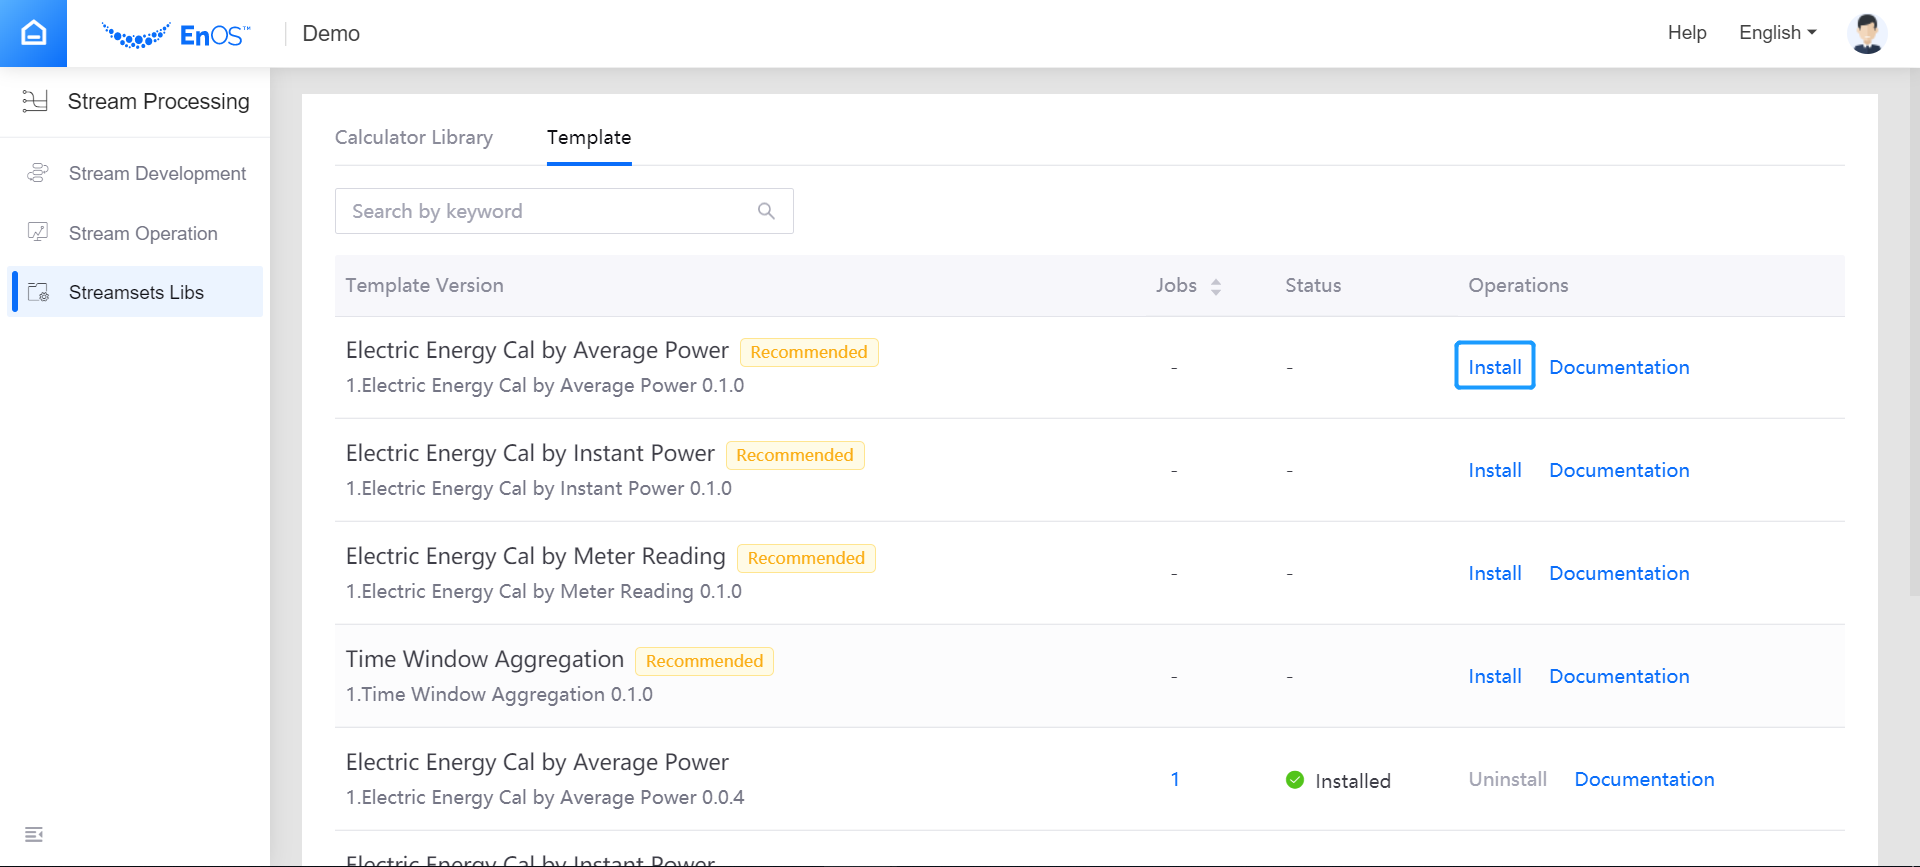
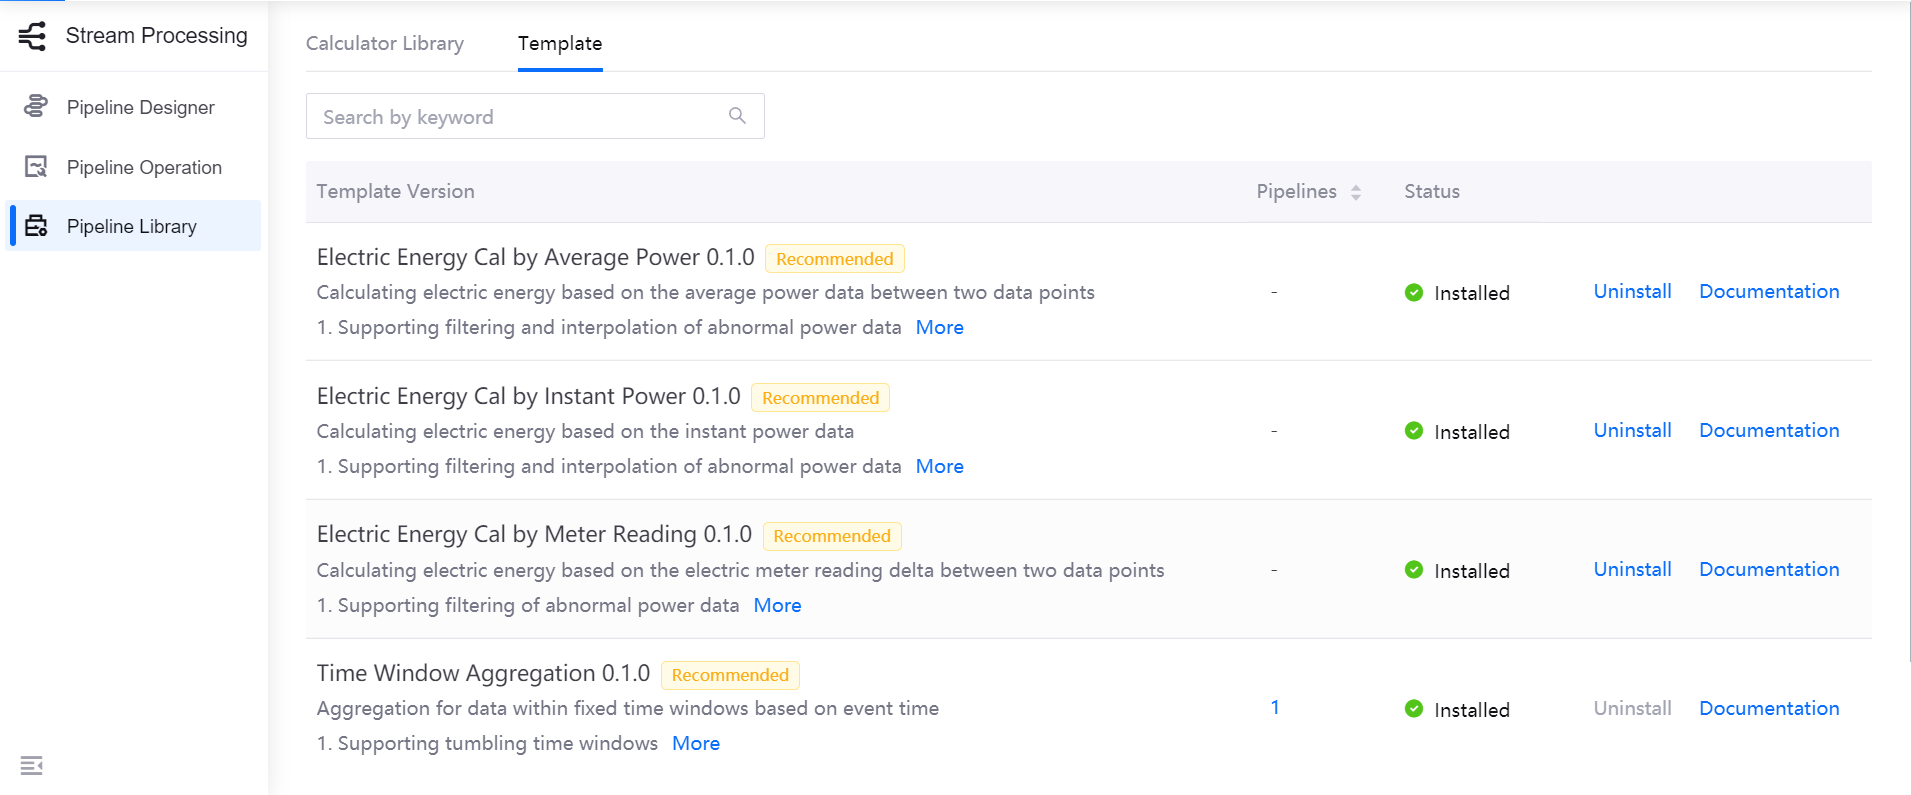
Update Tutorial

diff --git a/3_Data_Management/lab_tutorial/303-1_configuring_storage_policy.md b/3_Data_Management/lab_tutorial/303-1_configuring_storage_policy.md
@@ -1,12 +1,12 @@
-# Lab 1: Configuring the Storage Policy for the Battery Data
+# Lab 1: Configuring Storage Policy for Battery Data
 
-The EnOS Time Series Database (TSDB) provides a variety of storage options for you to store important and frequently-accessed business data. Through the configuring of storage policies, time-series data can be routed to different datastores based on data types and storage time, thus reducing data storage costs and enhancing data access efficiency.
+The EnOS Time Series Database (TSDB) provides a variety of storage options for you to store important and frequently-accessed business data. Through configuring storage policies, time-series data can be routed to different datastores based on data types and storage time, thus reducing data storage costs and enhancing data access efficiency.
 
-**Note**: By default, the uploaded data is not stored in TSDB. You must configure the data storage policy before the data is uploaded to EnOS Cloud.
+**Note**: By default, the uploaded data is not stored in TSDB. You must configure data storage policy before the data is uploaded to EnOS Cloud.
 
-In this lab, we will configure a storage policy for the following measurement points that are defined in the **SmartBattery_Demo** model.
+In this lab, we will configure storage policies for the following measurement points that are defined in the **SmartBattery_Demo** model.
 
-| Measuring Point  | Storage Type | Description                                                  |
+| Measurement Point  | Storage Type | Description                                                  |
 | ---------------- | ------------ | ------------------------------------------------------------ |
 | current          | AI Raw Data  | Real-time discharge current of the battery                   |
 | voltage          | AI Raw Data  | Real-time voltage of the battery                             |
@@ -16,17 +16,17 @@ In this lab, we will configure a storage policy for the following measurement po
 | health_level     | DI Data      | Output point of the stream processing job for analyzing the health level of the battery |
 | cycle_number     | Generic Data | Number of charge-discharge cycles that has happened on the battery                                 |
 
-For a detailed description of the supported storage types, see [Configuring TSDB Storage](https://support.envisioniot.com/docs/data-asset/en/latest/configuring_tsdb_storage.html).
+For detailed description of the supported storage types, see [Configuring TSDB Storage](https://support.envisioniot.com/docs/time-series-data/en/latest/configuring_tsdb_storage.html).
 
 ## Step 1: Creating a Storage Policy Group
 
-Storage policy groups enable you to manage the time-series data for different projects separately. Before configuring storage policies for the measurement points, you must create a storage policy group.
+Storage policy groups enable you to store the time-series data for different projects separately. Before configuring storage policies for the measurement points, you must create a storage policy group.
 
 However, note that each model can be associated to only one storage policy group.
 
-1. Log in to the EnOS Management Console and select **Time Series Data Management > Storage Policy** from the left navigation menu.
+1. Log in to the EnOS Management Console and select **Time Series Data Management > Storage Policies** from the left navigation menu.
 
-2. Click **Create Group** or the **+** icon to create a storage policy group and complete its configuration.
+2. Click **+ > Create Group** in the upper right corner of the page to create a storage policy group and complete its configuration.
 
    - **Group Name**: Enter a name for the storage policy group.
    - **Group Model**: Search and select the **SmartBattery_Demo** model (or the model you created yourself) to be associated with the storage policy group.
@@ -73,4 +73,3 @@ Follow the same steps to configure the storage policies for the other storage ty
 ## Next Lab
 
 [Calculating the Running-Average of the Battery Voltage](303-2_calculating_average_voltage.md)
-

diff --git a/3_Data_Management/lab_tutorial/303-2_calculating_average_voltage.md b/3_Data_Management/lab_tutorial/303-2_calculating_average_voltage.md
@@ -1,6 +1,6 @@
 # Lab 2. Calculating the Running-Average of the Battery Voltage
 
-The EnOS Stream Analytics service provides visualized template-based configurations to help you quickly develop stream analytics jobs to process time series data ingested from real-time or offline channels.
+The EnOS Stream Analytics service provides visualized template-based configuration to help you quickly develop stream analytics jobs to process time series data ingested from real-time or offline channels.
 
 After the storage policies are configured for the data uploaded from the battery, we can now develop a stream data processing job to calculate the running-average of the battery voltage. We will use the **Time Window Aggregation** template for the calculation.
 
@@ -18,7 +18,7 @@ The input data, output data, and the template to use for the stream data process
 
 If your OU has not installed the Data Calculation Templates, you need first install the templates before you can start.
 
-1. Log in to the EnOS Management Console and click **Stream Processing > Streamsets Libs**.
+1. Log in to the EnOS Management Console and click **Stream Processing > Pipeline Library**.
 
 2. Click the **Template** tab to view the data calculation templates that can be installed. Currently, the following templates are available.
 
@@ -30,8 +30,6 @@ If your OU has not installed the Data Calculation Templates, you need first inst
 3. Find the template to be installed and click **Install**. The system will start the installation immediately.
 
    <img src="media/installing_stream_template.png" style="zoom:50%;" />
-
- 
 
 
 ## Step 2: Creating a Stream Data Processing Job
@@ -75,7 +73,7 @@ See the following example of the completed configuration:
 
 ![](media/stream_config.png)
 
-For more information about the *Time Window Aggregation* template, see [Configuring a Time Window Data Aggregation Job](https://support.envisioniot.com/docs/data-asset/en/latest/howto/streaming/configuring_ai_template.html). 
+For more information about the *Time Window Aggregation* template, see [Configuring a Time Window Data Aggregation Job](https://support.envisioniot.com/docs/data-asset/en/latest/howto/streaming/configuring_ai_template.html).
 
 
 
@@ -99,7 +97,7 @@ Follow the steps below to start the stream processing job.
 
 1. Open the **Stream Operation** page, and check the status of the system pipelines under the **System Pipeline** tab.
 
-2. In the list of system pipelines, click the **Start** icon ![start_icon](https://support.envisioniot.com/docs/data-asset/en/latest/_images/start_icon1.png) to start the required system pipeline. 
+2. In the list of system pipelines, click the **Start** icon ![start_icon](https://support.envisioniot.com/docs/data-asset/en/latest/_images/start_icon1.png) to start the required system pipeline.
 
    ![](media/starting_system_pipeline.png)
 

diff --git a/3_Data_Management/lab_tutorial/readme.md b/3_Data_Management/lab_tutorial/readme.md
@@ -1,17 +1,17 @@
 # Data Asset Management Workshop
 
-With your devices connected, your data will start to accumulate in EnOS. As it could be quite a challenge to manage the vast amount of IoT data, you can use the Data Asset Management to help you manage and reduce your cost on data storage, lower the development barrier of stream analytics, and increase data access efficiency.
+With your devices connected, your data will start to accumulate in EnOS. As it could be quite a challenge to manage the huge amount of IoT data, you can use EnOS Enterprise Data Platform service to help you manage data assets and reduce your cost on data storage, lower the development barrier of stream analytics, and increase data access efficiency.
 
 
 ## Scenario
 
-This workshop will walk you through the steps on how to create stream data processing jobs with a template and StreamSets operators to calculate the discharge energy and health level of the battery.
+This workshop will walk you through the steps on how to create stream data processing pipelines with a template and operators to calculate the discharge energy and health level of the battery.
 
 ## Before You Start
 
 - Ensure that you have signed up for an individual account or an enterprise account to access the **EnOS Management Console**.
 - Ensure that your account have been assigned full access to the model service, device connectivity & management service, and asset tree service.
-- Read through the [Real-time Data Flow](https://support.envisioniot.com/docs/data-asset/en/latest/learn/data_flow.html) document to get an overview of data flows in EnOS.
+- Read through the [Real-time Data Flow](https://support.envisioniot.com/docs/data-asset/en/latest/learn/data_flow.html) documentation to get an overview of data flows in EnOS.
 
 ## Labs
 
@@ -40,4 +40,3 @@ This tutorial includes the following units:
 [Lab 6. Generating Data Quality Report](303-6_generating_data_quality_report.md)
 
 30 minutes
-
